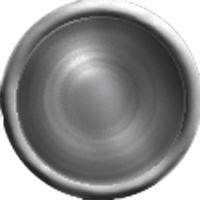
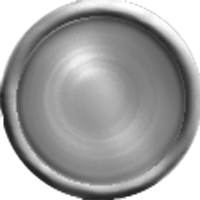
Symbol font measurments (margin/fontsize) now scaled by font size, this requires all symbol files to change (or you get really large margins); Symbol fonts now support stretching/compressing of text; Made the default symbols of mana-future lighter (compare with real cards); Use sort_text instead of 

diff --git a/src/data/symbol_font.cpp b/src/data/symbol_font.cpp
@@ -268,33 +268,39 @@ void SymbolFont::drawWithText(RotatedDC& dc, const RealRect& rect, double font_s
 	// 2. draw text
 	if (!text_font) return;
 	// subtract margins from size
-	sym_rect.x      += text_margin_left;
-	sym_rect.y      += text_margin_top;
-	sym_rect.width  -= text_margin_left + text_margin_right;
-	sym_rect.height -= text_margin_top  + text_margin_bottom;
+	sym_rect.x      += font_size * text_margin_left;
+	sym_rect.y      += font_size * text_margin_top;
+	sym_rect.width  -= font_size * (text_margin_left + text_margin_right);
+	sym_rect.height -= font_size * (text_margin_top  + text_margin_bottom);
 	// setup text, shrink it
-	double size = text_font->size; // TODO : incorporate shrink factor?
+	double size = font_size * text_font->size;
+	double stretch = 1.0;
 	RealSize ts;
 	while (true) {
 		if (size <= 0) return; // text too small
 		dc.SetFont(*text_font, size / text_font->size);
 		ts = dc.GetTextExtent(text);
-		if (ts.width <= sym_rect.width && ts.height <= sym_rect.height) {
-			break; // text fits
-		} else {
-			// text doesn't fit
-			size -= dc.getFontSizeStep();
+		if (ts.height <= sym_rect.height) {
+			if (ts.width <= sym_rect.width) {
+				break; // text fits
+			} else if (ts.width * text_font->max_stretch <= sym_rect.width) {
+				stretch = sym_rect.width / ts.width;
+				ts.width = sym_rect.width; // for alignment
+				break;
+			}
 		}
+		// text doesn't fit
+		size -= dc.getFontSizeStep();
 	}
 	// align text
 	RealPoint text_pos = align_in_rect(text_alignment, ts, sym_rect);
 	// draw text
 	if (text_font->hasShadow()) {
 		dc.SetTextForeground(text_font->shadow_color);
-		dc.DrawText(text, text_pos + text_font->shadow_displacement);
+		dc.DrawText(text, text_pos + text_font->shadow_displacement * font_size, 0, 1, stretch);
 	}
 	dc.SetTextForeground(text_font->color);
-	dc.DrawText(text, text_pos);
+	dc.DrawText(text, text_pos, 0, 1, stretch);
 }
 
 Image SymbolFont::getImage(double font_size, const DrawableSymbol& sym) {
@@ -312,33 +318,39 @@ Image SymbolFont::getImage(double font_size, const DrawableSymbol& sym) {
 		RealRect sym_rect(0,0,bmp.GetWidth(),bmp.GetHeight());
 		RotatedDC rdc(dc, 0, sym_rect, 1, QUALITY_AA);
 		// subtract margins from size
-		sym_rect.x      += text_margin_left;
-		sym_rect.y      += text_margin_top;
-		sym_rect.width  -= text_margin_left + text_margin_right;
-		sym_rect.height -= text_margin_top  + text_margin_bottom;
+		sym_rect.x      += font_size * text_margin_left;
+		sym_rect.y      += font_size * text_margin_top;
+		sym_rect.width  -= font_size * (text_margin_left + text_margin_right);
+		sym_rect.height -= font_size * (text_margin_top  + text_margin_bottom);
 		// setup text, shrink it
-		double size = text_font->size; // TODO : incorporate shrink factor?
+		double size = font_size * text_font->size;
+		double stretch = 1.0;
 		RealSize ts;
 		while (true) {
 			if (size <= 0) return def->getImage(*this, font_size); // text too small
 			rdc.SetFont(*text_font, size / text_font->size);
 			ts = rdc.GetTextExtent(sym.text);
-			if (ts.width <= sym_rect.width && ts.height <= sym_rect.height) {
-				break; // text fits
-			} else {
-				// text doesn't fit
-				size -= rdc.getFontSizeStep();
+			if (ts.height <= sym_rect.height) {
+				if (ts.width <= sym_rect.width) {
+					break; // text fits
+				} else if (ts.width * text_font->max_stretch <= sym_rect.width) {
+					stretch = sym_rect.width / ts.width;
+					ts.width = sym_rect.width; // for alignment
+					break;
+				}
 			}
+			// text doesn't fit
+			size -= rdc.getFontSizeStep();
 		}
 		// align text
 		RealPoint text_pos = align_in_rect(text_alignment, ts, sym_rect);
 		// draw text
 		if (text_font->hasShadow()) {
 			rdc.SetTextForeground(text_font->shadow_color);
-			rdc.DrawText(sym.text, text_pos + text_font->shadow_displacement);
+			rdc.DrawText(sym.text, text_pos + text_font->shadow_displacement * font_size, 0, 1, stretch);
 		}
 		rdc.SetTextForeground(text_font->color);
-		rdc.DrawText(sym.text, text_pos);
+		rdc.DrawText(sym.text, text_pos, 0, 1, stretch);
 		// done
 		dc.SelectObject(wxNullBitmap);
 		return bmp.ConvertToImage();

diff --git a/src/gfx/resample_text.cpp b/src/gfx/resample_text.cpp
@@ -43,6 +43,8 @@ void downsample_to_alpha(Image& img_in, Image& img_out) {
 		int w1 = img_in.GetWidth(), w2 = img_out.GetWidth(), h = img_in.GetHeight();
 		int out_fact = (w2 << shift) / w1; // how much to output for 256 input = 1 pixel
 		int out_rest = (w2 << shift) % w1;
+		// make the image 'bolder' to compensate for compressing it
+		int mul = 128 + min(256, 128*w1/(text_scaling*w2));
 		for (int y = 0 ; y < h ; ++y) {
 			int in_rem = out_fact + out_rest;
 			for (int x = 0 ; x < w2 ; ++x) {
@@ -61,7 +63,7 @@ void downsample_to_alpha(Image& img_in, Image& img_out) {
 					in_rem -= out_rem;
 				}
 				// store
-				*out = tot >> shift;
+				*out = top(((tot >> shift) * mul) >> 8);
 				out += 1;
 			}
 		}
@@ -89,6 +91,7 @@ void downsample_to_alpha(Image& img_in, Image& img_out) {
 		int h1 = img_in.GetHeight(), w = img_out.GetWidth();
 		int out_fact = (h << shift) / h1; // how much to output for 256 input = 1 pixel
 		int out_rest = (h << shift) % h1;
+		int mul = 128 + min(256, 128*h1/(text_scaling*h));
 		for (int x = 0 ; x < w ; ++x) {
 			int in_rem = out_fact + out_rest;
 			for (int y = 0 ; y < h ; ++y) {
@@ -107,7 +110,7 @@ void downsample_to_alpha(Image& img_in, Image& img_out) {
 					in_rem -= out_rem;
 				}
 				// store
-				*out = tot >> shift;
+				*out = top(((tot >> shift) * mul) >> 8);
 				out += line_size;
 			}
 			in  = in  - h1 * line_size + 1;

diff --git a/src/util/rotation.cpp b/src/util/rotation.cpp
@@ -131,12 +131,12 @@ RotatedDC::RotatedDC(DC& dc, const Rotation& rotation, RenderQuality quality)
 
 // ----------------------------------------------------------------------------- : RotatedDC : Drawing
 
-void RotatedDC::DrawText  (const String& text, const RealPoint& pos, int blur_radius, int boldness) {
+void RotatedDC::DrawText  (const String& text, const RealPoint& pos, int blur_radius, int boldness, double stretch_) {
 	if (text.empty()) return;
 	if (quality == QUALITY_AA) {
 		RealRect r(pos, GetTextExtent(text));
 		RealRect r_ext = trNoNeg(r);
-		draw_resampled_text(dc, r_ext, stretch(), revX(), revY(), angle, text, blur_radius, boldness);
+		draw_resampled_text(dc, r_ext, stretch_ * stretch(), revX(), revY(), angle, text, blur_radius, boldness);
 	} else if (quality == QUALITY_SUB_PIXEL) {
 		RealPoint p_ext = tr(pos)*text_scaling;
 		double usx,usy;

diff --git a/src/data/font.cpp b/src/data/font.cpp
@@ -15,6 +15,7 @@ Font::Font()
 	, size(1)
 	, underline(false)
 	, scale_down_to(100000)
+	, max_stretch(1.0)
 	, shadow_displacement(0,0)
 	, separator_color(128,128,128)
 	, flags(FONT_NORMAL)
@@ -70,7 +71,7 @@ FontP Font::make(int add_flags, Color* other_color) const {
 }
 
 wxFont Font::toWxFont(double scale) const {
-	int size_i = scale * size;
+	int size_i = to_int(scale * size);
 	int weight_i = flags & FONT_BOLD   ? wxFONTWEIGHT_BOLD  : wxFONTWEIGHT_NORMAL;
 	int style_i  = flags & FONT_ITALIC ? wxFONTSTYLE_ITALIC : wxFONTSTYLE_NORMAL;
 	// make font
@@ -108,6 +109,7 @@ IMPLEMENT_REFLECTION_NO_SCRIPT(Font) {
 	REFLECT(italic_name);
 	REFLECT(color);
 	REFLECT(scale_down_to);
+	REFLECT(max_stretch);
 	REFLECT_N("shadow_displacement_x", shadow_displacement.width);
 	REFLECT_N("shadow_displacement_y", shadow_displacement.height);
 	REFLECT(shadow_color);

diff --git a/src/util/rotation.hpp b/src/util/rotation.hpp
@@ -151,7 +151,7 @@ class RotatedDC : public Rotation {
   
 	// --------------------------------------------------- : Drawing
 	
-	void DrawText  (const String& text,   const RealPoint& pos, int blur_radius = 0, int boldness = 1);
+	void DrawText  (const String& text,   const RealPoint& pos, int blur_radius = 0, int boldness = 1, double stretch = 1.0);
 	/// Draw abitmap, it must already be zoomed!
 	void DrawBitmap(const Bitmap& bitmap, const RealPoint& pos);
 	/// Draw an image using the given combining mode, the image must already be zoomed!

diff --git a/src/data/font.hpp b/src/data/font.hpp
@@ -39,6 +39,7 @@ class Font : public IntrusivePtrBase<Font> {
 	Scriptable<String> weight, style;		///< Weight and style of the font (bold/italic)
 	Scriptable<bool>   underline;			///< Underlined?
 	double             scale_down_to;		///< Smallest size to scale down to
+	double             max_stretch;			///< How much should the font be stretched before scaling down?
 	Scriptable<Color>  color;				///< Color to use
 	Scriptable<Color>  shadow_color;		///< Color for shadow
 	RealSize           shadow_displacement;	///< Position of the shadow
